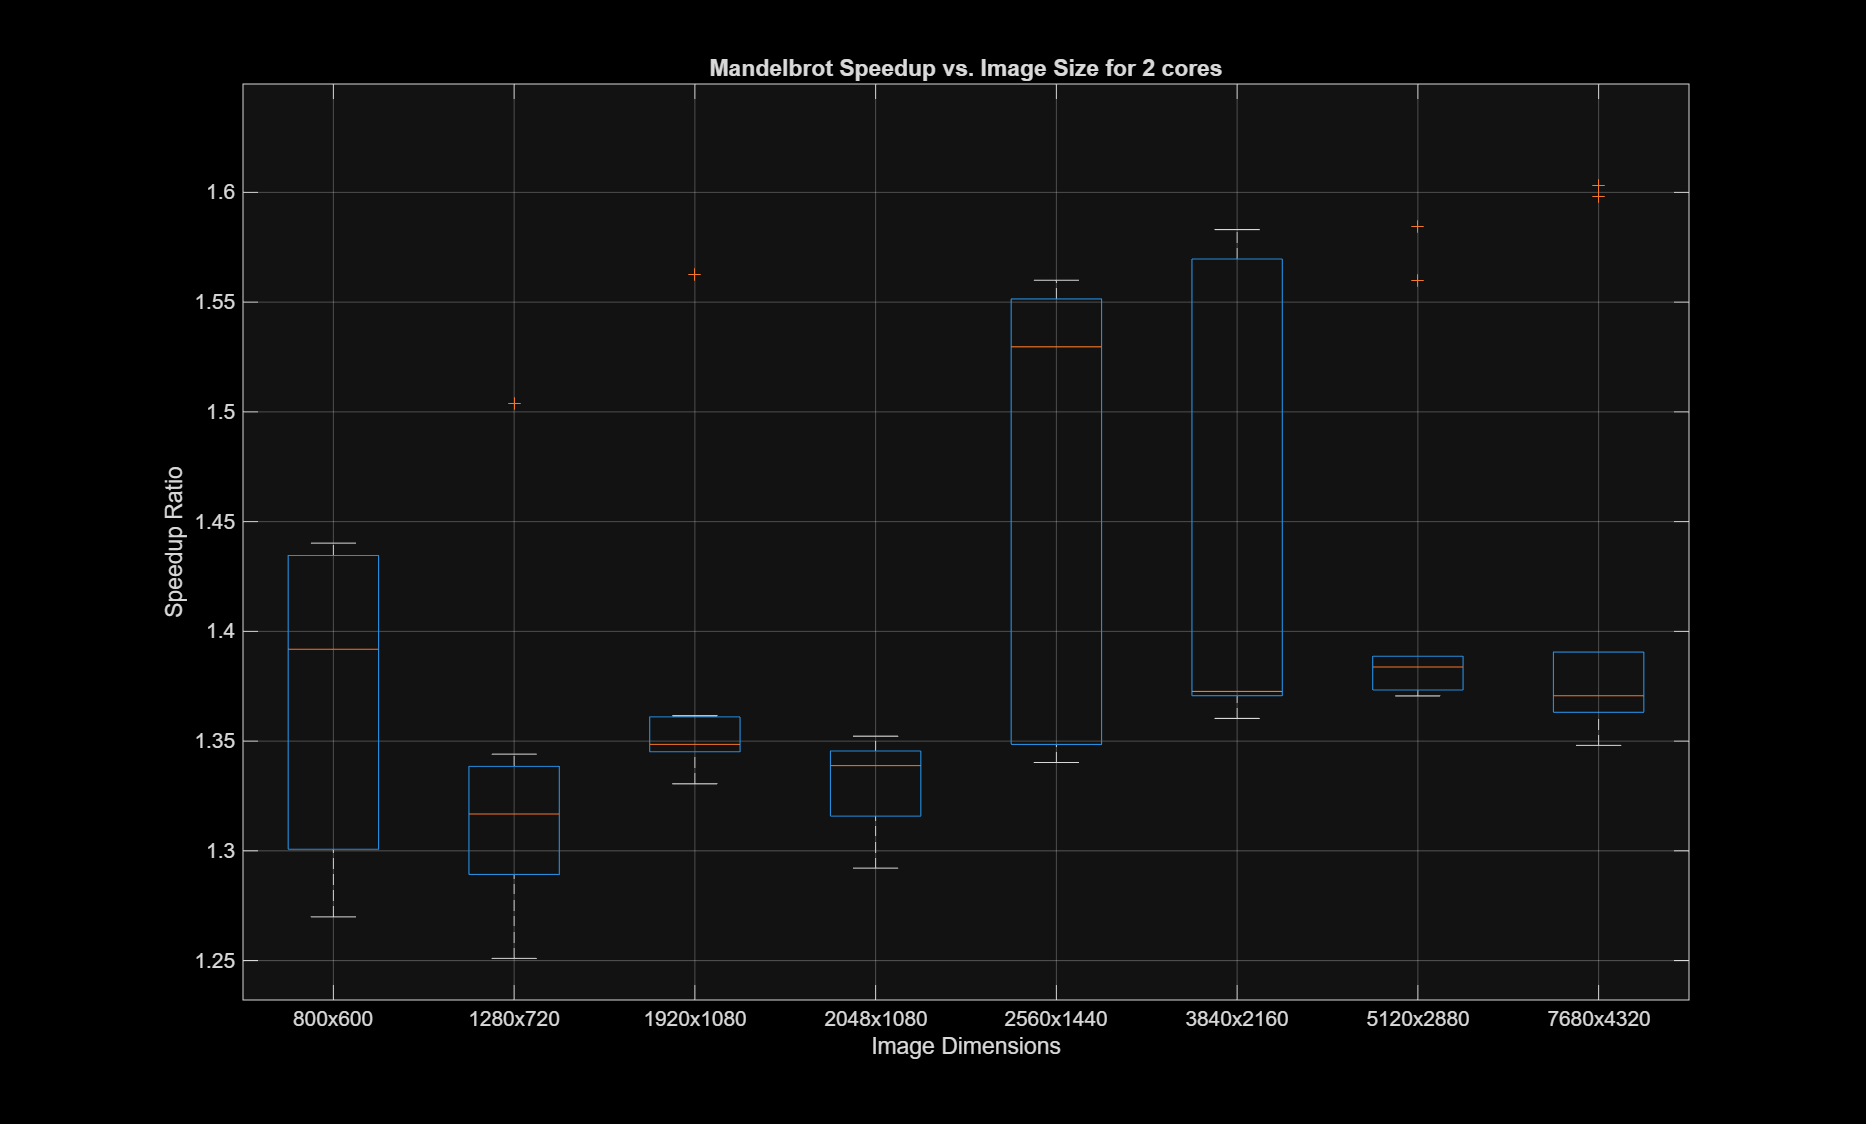
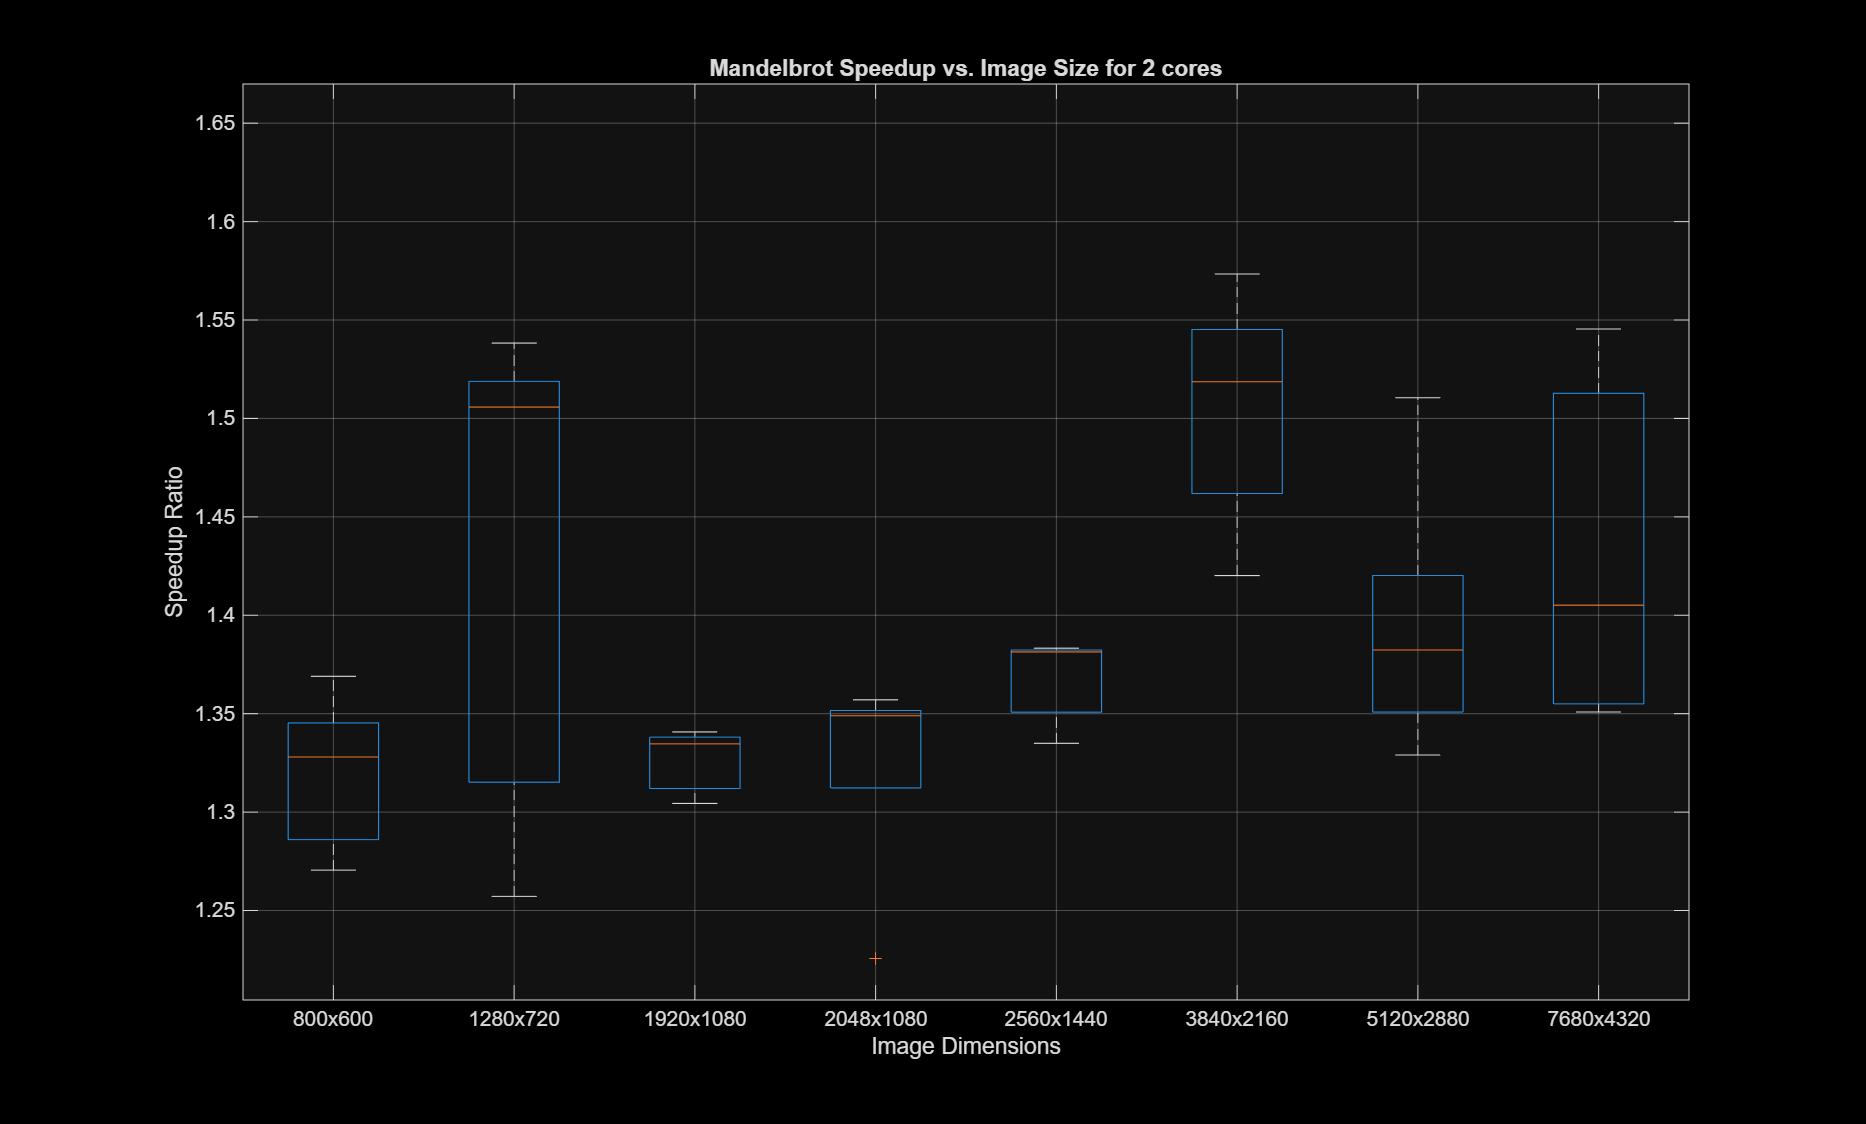
improved readme, new results data

diff --git a/mandelbrot_parallel.m b/mandelbrot_parallel.m
@@ -12,7 +12,6 @@
 %  PART 3: Parallel Mandelbrot Set Computation
 %  ========================================================================
 %
-%TODO: Implement parallel Mandelbrot set computation function
 function img = mandelbrot_parallel(cols, rows, max_iterations, cmap)
     % The area of the complex plane to calculate for.
     x_min = -2.0;

diff --git a/mandelbrot_sequential.m b/mandelbrot_sequential.m
@@ -12,7 +12,6 @@
 %  PART 2: Serial Mandelbrot Set Computation
 %  ========================================================================`
 %
-%TODO: Implement serial Mandelbrot set computation function
 function img = mandelbrot_sequential(cols, rows, max_iterations, cmap)
     % The area of the complex plane to calculate for.
     x_min = -2.0;

diff --git a/run_analysis.m b/run_analysis.m
@@ -33,7 +33,6 @@ end
 %
 % Defined in mandelbrot_sequential.m
 
-
 %% ========================================================================
 %  PART 3: Parallel Mandelbrot Set Computation
 %  ========================================================================

diff --git a/README.md b/README.md
@@ -1,15 +1,16 @@
 # EEE4120F Practical 2 Repository
 
-Compare built-in Octave/MATLAB image processing performance to a manually-implemented
-loop-based implementation.
-Compare a serial implementation of finding the Mandelbrot set, to a parallel implementation.
+Analyze the correctness, speed-up, and parallel efficiency of using MATLAB's
+`parfor` parallel execution model against the serial "golden standard" implementation
+of a simple embarassingly-parallel algorithm to check membership of the Mandelbrot
+set for samples taken in the complex plane.
 
 # To Run
 
-## With Octave (required `octave` and `octave-image` are pre-installed)
+## With MATLAB
 
-1. Change directory to the repo.
-2. `octave run_analysis`
+1. Open MATLAB with the repository directory open (GUI or CLI).
+2. `run_analysis`
 
 # Data
 
@@ -17,4 +18,9 @@ Compare a serial implementation of finding the Mandelbrot set, to a parallel imp
 An `analysis_results.csv` file will be generated after running.
 
 ## Visuals
-A plot... of something (to be decided).
+
+Resulting colour-mapped Mandelbrot set images are output to
+`serial_output_images` and `parallel_output_images` during execution of 
+`run_analysis`.
+
+Sppedup graphs will be plotted in MATLAB at the end of `run_analysis`.
